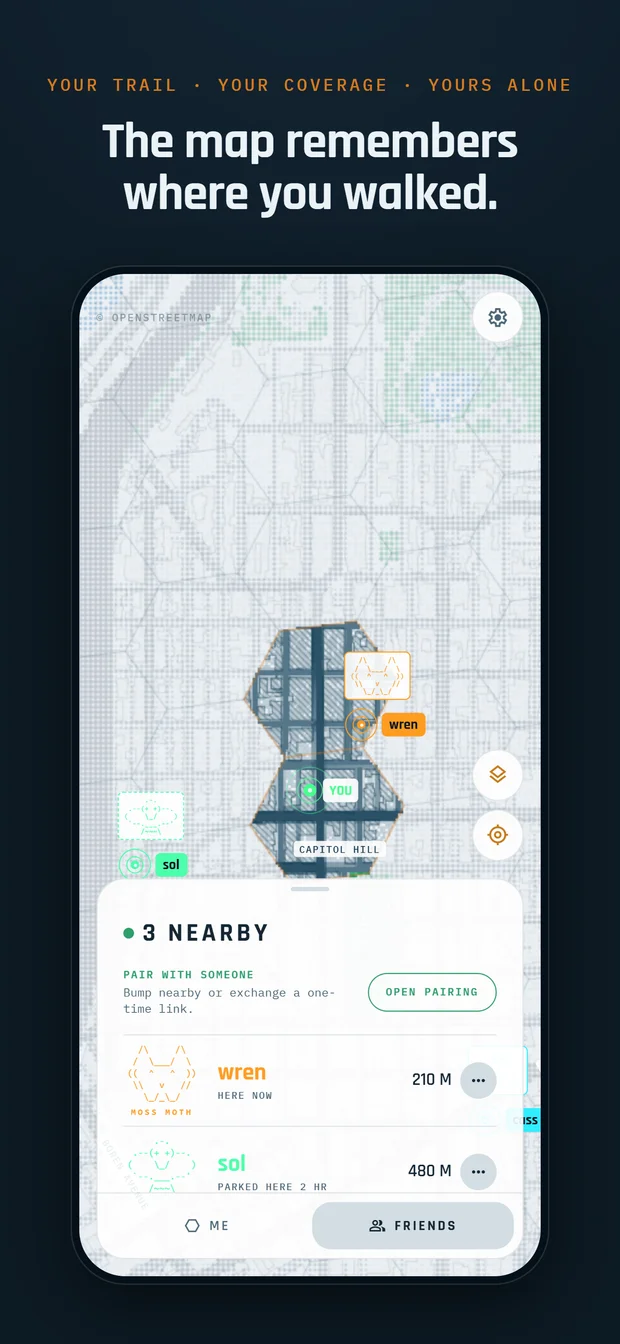
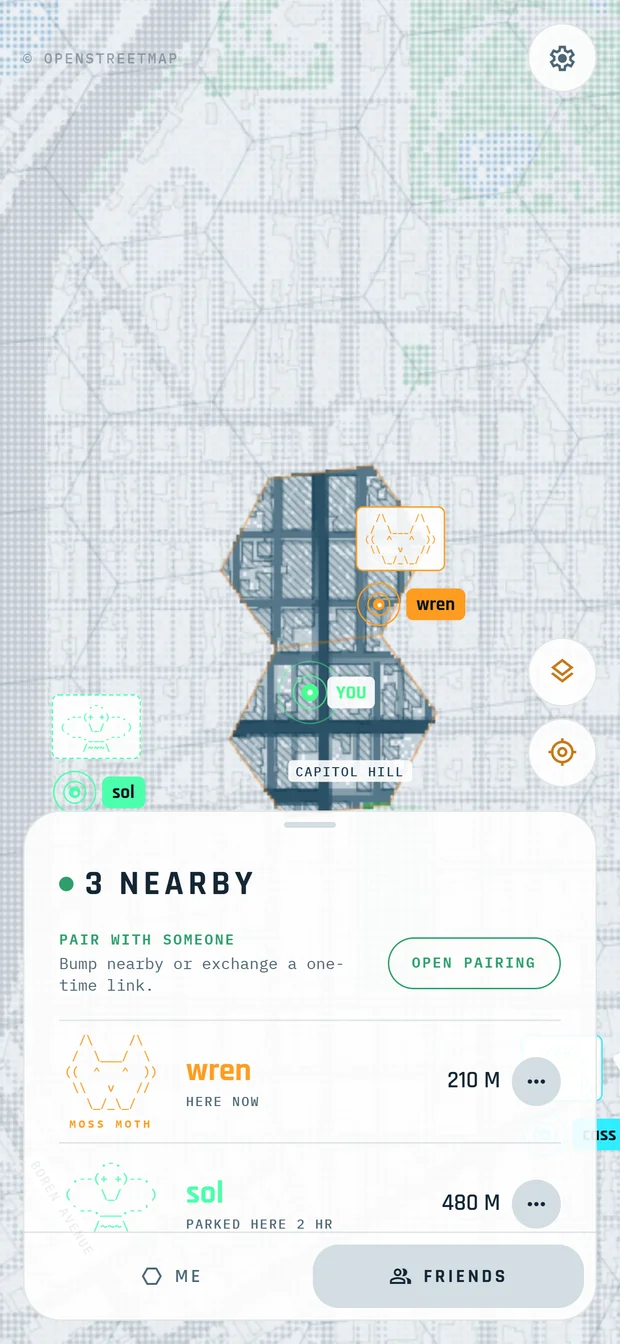
docs: show the app itself in the readme, not the store plates
The four images were the framed marketing plates — device bezel, brand ground,
a headline set over the top. That is a picture of a listing, not of the app.
Swap in the bare captures from the same run (`store/screenshots/raw/`, which the
framing pass composes and .gitignore keeps out of the tree) so the screens are
shown at full width, and caption them by what they are instead of by their store
kicker.

diff --git a/README.md b/README.md
@@ -17,16 +17,16 @@ every server it touches is one you can run yourself
 <td width="25%"><img src="docs/media/delivery.webp" alt="The delivery system screen"></td>
 </tr>
 <tr>
-<td align="center"><sub>End-to-end encrypted · peer-to-peer</sub></td>
-<td align="center"><sub>No accounts · no ads · no brokers</sub></td>
-<td align="center"><sub>Your trail · your coverage · yours alone</sub></td>
-<td align="center"><sub>Direct · via mutuals · via your stash</sub></td>
+<td align="center"><sub>Your sectors, and the friends in them</sub></td>
+<td align="center"><sub>Who is nearby, and how to pair</sub></td>
+<td align="center"><sub>A neighbourhood filling in</sub></td>
+<td align="center"><sub>Choosing how your location travels</sub></td>
 </tr>
 </table>
 
-<sub>Real captures of the running app, photographed by `just store-shots` — the same build the
-stores get, driven through its own controls. The people on the map are fixtures; everything
-about them on screen is derived by the shipping code.</sub>
+<sub>Bare captures of the running app at iPhone 6.9" metrics (`just store-shots "--raw-only"`),
+not the framed store plates. The people on the map are fixtures; their presence states, distances
+and markers are all derived by the shipping code.</sub>
 
 ## What it is
 
